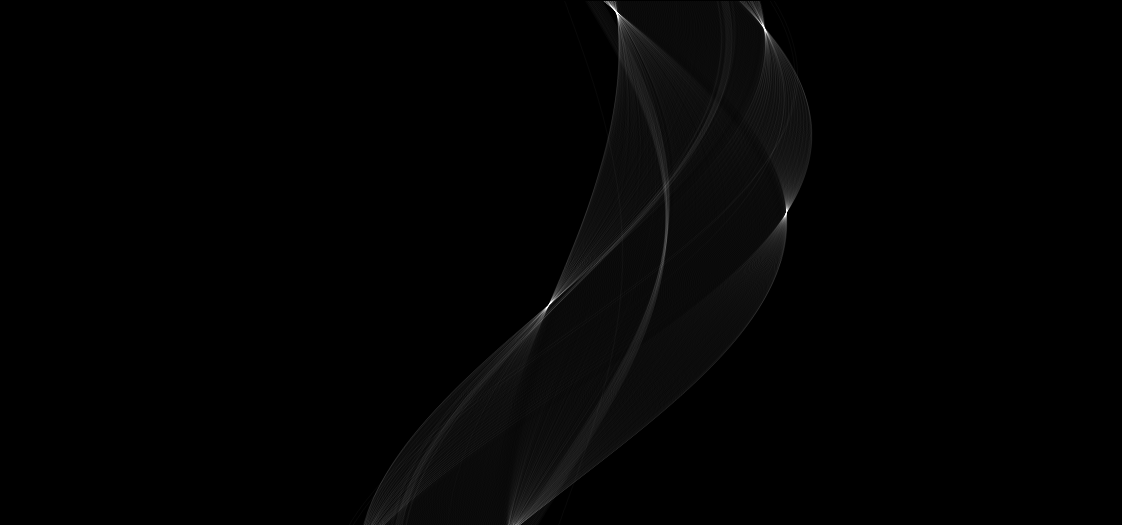
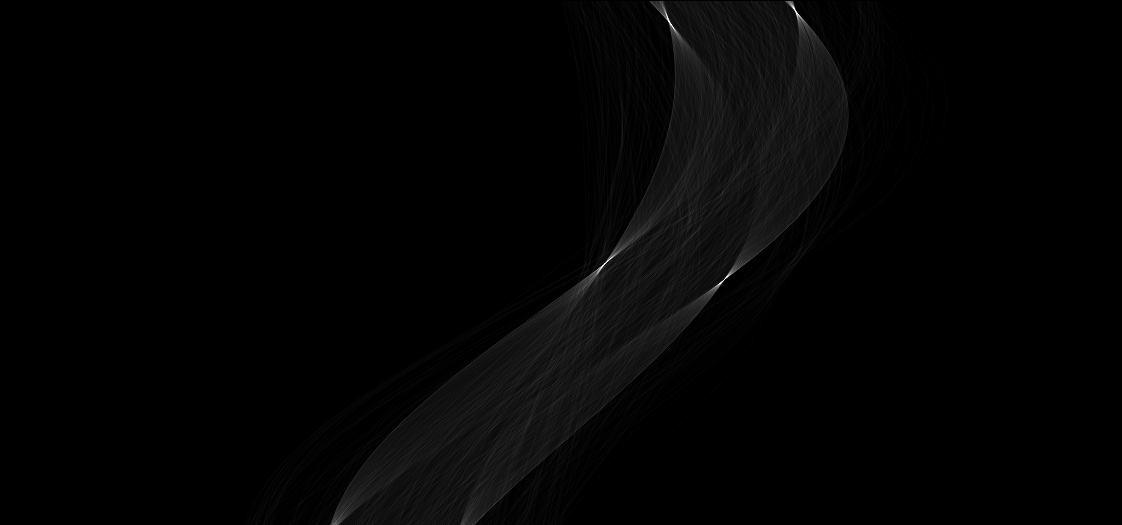
Modifié : Algorithme d'indexation

diff --git a/eclipse/Game/imageproc/ImageProcessing.java b/eclipse/Game/imageproc/ImageProcessing.java
@@ -19,7 +19,7 @@ public class ImageProcessing extends PApplet {
 	@Override
 	public void setup() {
 	//	size(640,480);
-		image = loadImage("resources/boards/board2.jpg");
+		image = loadImage("resources/boards/board1.jpg");
 		/*camStart();
 		if(cam.available()==true){
 			cam.read();
@@ -72,7 +72,8 @@ public class ImageProcessing extends PApplet {
 	// ALL
 		// ALL sequential
 		start = System.currentTimeMillis();
-		sobel(hsbFilter(gaussianBlur(image, 1)), 1);
+		//sobel(hsbFilter(gaussianBlur(image, 1)), 1);
+		sobel(hsbFilter(image), 1);
 		stop = System.currentTimeMillis();
 				
 		System.out.println("Sequential all took " + (stop-start) + "ms");
@@ -107,7 +108,7 @@ public class ImageProcessing extends PApplet {
 		hough(result);
 	}
 	private void drawPic(){
-		image = loadImage("resources/boards/board4.jpg");
+		image = loadImage("resources/boards/board1.jpg");
 		result = applyAll(image);
 		image(image,0,0);
 		hough(result);
@@ -382,15 +383,23 @@ public class ImageProcessing extends PApplet {
 					if(brightness(edgeImg.pixels[y*edgeImg.width+x])!=0){
 						//...determine all the lines (r,phi) passing through
 						// pixel(x,y), convert(r, phi) to coordinates in accumulator, increment accumulator;
-						int i = 0;
 						for(float phi = 0; phi<Math.PI; phi+=discretizationStepPhi){
 							float r = (x)*cos(phi)+(y)*sin(phi);
+							
+							
+							float accPhi = phi/discretizationStepPhi;
+							float idx = (accPhi+1)*(rDim+2);
+							float accR = r/discretizationStepR + (rDim-1)*0.5f;
+							idx = accR+(accPhi+1)*(rDim+2);
+							
+							
+							
+							
 							
 							int index = (int)(r/discretizationStepR + (rDim-1)*0.5 + ((phi/discretizationStepPhi)+1)*(rDim+2)+1);
 							int index2 = (int)(1+phi/discretizationStepPhi)*(rDim+2);
 							
-							accumulator[(int)(index)] ++;
-							i++;
+							accumulator[(int)(idx)+1] ++;
 							}
 						
 						}
@@ -402,7 +411,7 @@ public class ImageProcessing extends PApplet {
 				houghImg.pixels[i] = color(min(255,accumulator[i]));
 			}
 			houghImg.updatePixels();
-			houghImg.save("resources/boards/Accumulator.png");
+			//houghImg.save("resources/boards/Accumulator.png");
 	/////plotting the lines
 			for(int idx = 0; idx<accumulator.length;idx++){
 				if(accumulator[idx]>200){
